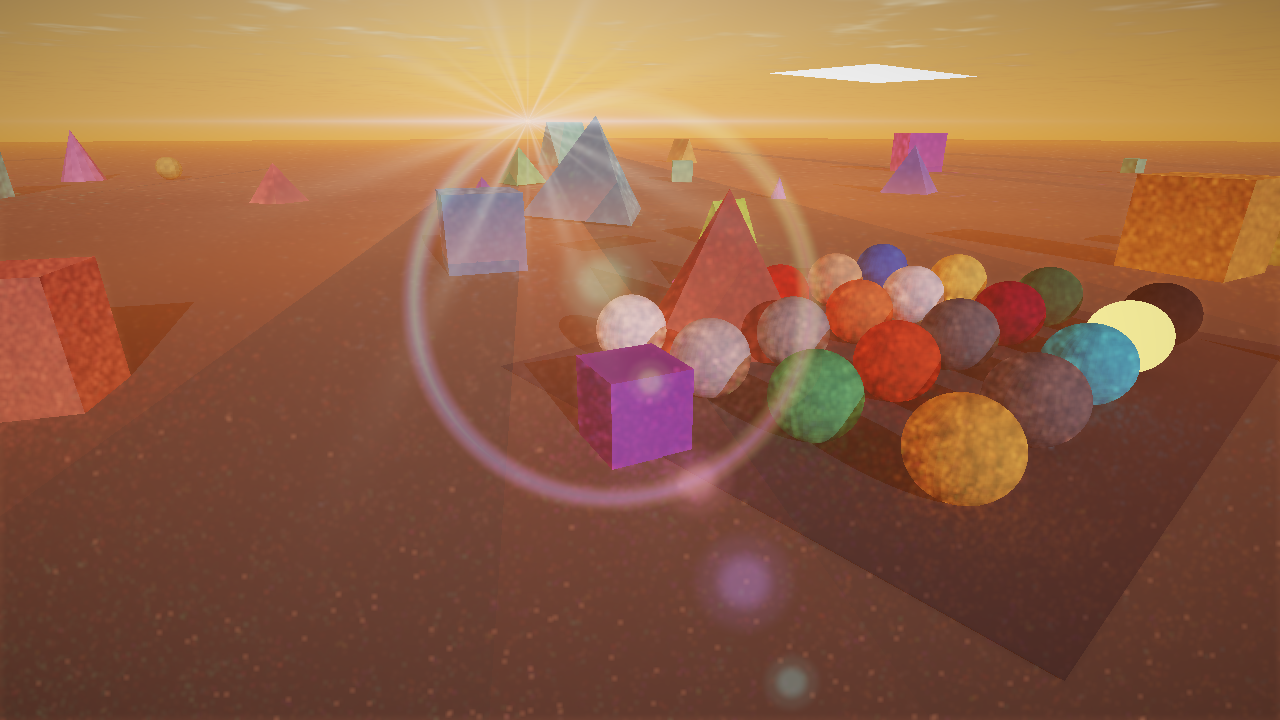
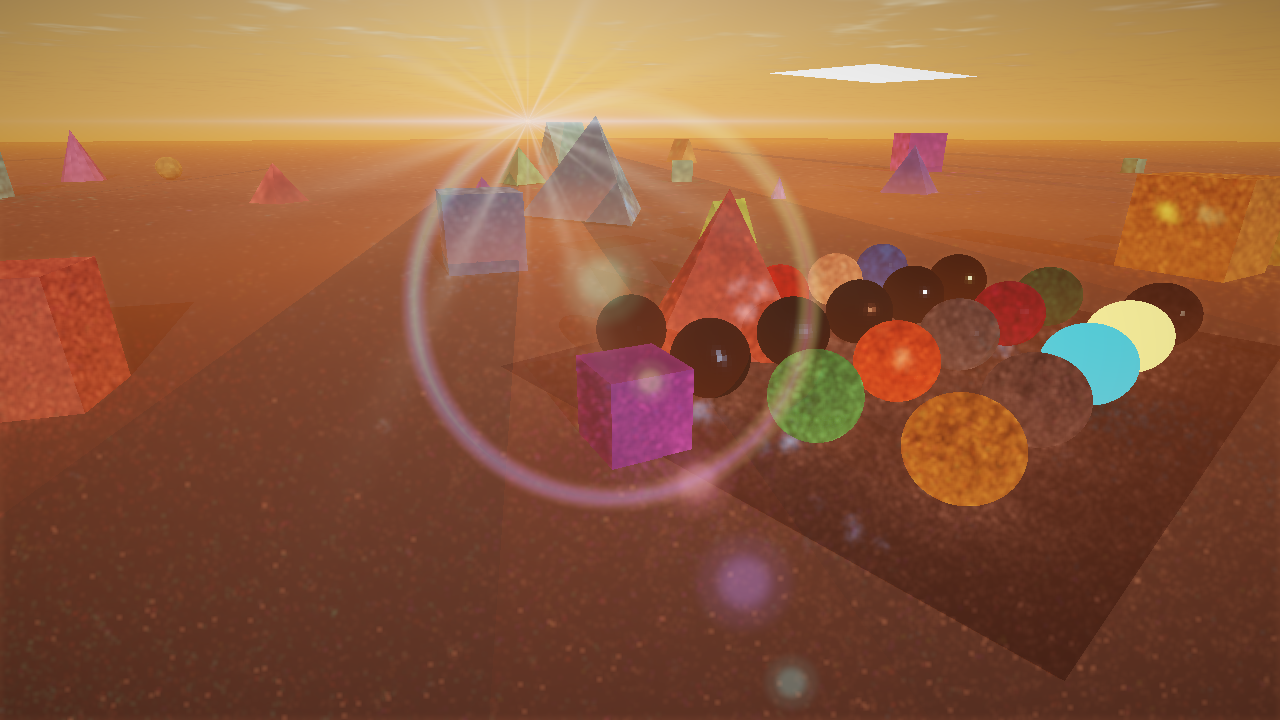
M9: combine authored material grid with showcase rendering

diff --git a/Projects/Project-Zero/Source/RendererHost.cpp b/Projects/Project-Zero/Source/RendererHost.cpp
@@ -3,6 +3,7 @@
 //============================================================================================================================================
 
 #include "RendererHost.h"
+#include "CpuMaterialShading.h"
 #include <fstream>
 #include <cmath>
 #include <algorithm>
@@ -106,6 +107,28 @@ void RendererHost::RenderShowcaseFrame(const Frontier::CameraProjection& ActiveC
     SkyFog.AssignCloudShadow(CloudShadows, CloudTime, CloudType, CloudCoverage, CloudScale, CloudBase, CloudThickness, CloudDensity);
 
     const auto& Materials = Scene.QueryMaterials();
+    // Authored showcase/grid records stay on the same OpenPBR/MaterialEvaluation.slang CPU path as the GPU
+    // material descriptors. Legacy analytical objects retain their historical Lambert fallback below.
+    std::vector<CpuMaterial::ShadingRecord> AuthoredRecords(Materials.size());
+    std::vector<uint8_t> HasAuthoredMaterial(Materials.size(), 0u);
+    std::vector<uint8_t> AuthoredUnlit(Materials.size(), 0u);
+    uint32_t AuthoredCount = 0u;
+    uint32_t TransmissionCount = 0u;
+    uint32_t SubsurfaceCount = 0u;
+    for (size_t MaterialIndex = 0u; MaterialIndex < Materials.size(); ++MaterialIndex)
+    {
+        if (!Materials[MaterialIndex].HasAuthoredDescriptor || Materials[MaterialIndex].AuthoredDescriptor.Slabs.empty()) continue;
+        const auto& Descriptor = Materials[MaterialIndex].AuthoredDescriptor;
+        AuthoredRecords[MaterialIndex] = CpuMaterial::BuildRecord(Descriptor);
+        HasAuthoredMaterial[MaterialIndex] = 1u;
+        AuthoredUnlit[MaterialIndex] = CpuMaterial::IsUnlit(Descriptor) ? 1u : 0u;
+        ++AuthoredCount;
+        const auto& Slab = Descriptor.Slabs.front();
+        if (Slab.TransmissionWeight > 0.0f) ++TransmissionCount;
+        if (Slab.SubsurfaceWeight > 0.0f) ++SubsurfaceCount;
+    }
+    std::printf("[Project-Zero CPU] authored materials=%u transmission=%u subsurface=%u; MaterialEvaluation.slang + ReSTIR DI/GI + M9 presentation active\n",
+                AuthoredCount, TransmissionCount, SubsurfaceCount);
     const Vector3 SunWorld = SkyFog.QuerySunDirectionWorld();
     const Vector3 SunRadiance = SkyFog.QuerySunRadiance();
     const Vector3 MoonWorld = SkyFog.QueryMoonDirectionWorld();
@@ -133,6 +156,7 @@ void RendererHost::RenderShowcaseFrame(const Frontier::CameraProjection& ActiveC
         {
             size_t idx = y * Width + x;
             const auto& Hit = PrimaryHits[idx];
+            const RayStructure PrimaryRay = GeneratePrimaryRay(ActiveCamera, x, y, 0.5f, 0.5f);
 
             if (!Hit.ValidCondition)
             {
@@ -140,18 +164,68 @@ void RendererHost::RenderShowcaseFrame(const Frontier::CameraProjection& ActiveC
             }
 
             const auto& Mat = Materials[Hit.MaterialIndex];
-            float SunCos = std::max(0.0f, OrientationClassifier::DotProduct(Hit.SurfaceNormal, SunWorld));
-            float SunVisible = Scene.EvaluateOcclusion(Hit.HitLocation + Hit.SurfaceNormal * 0.001f, Hit.HitLocation + SunWorld * 1000.0f) ? 0.0f : 1.0f;
-            float MoonCos = std::max(0.0f, OrientationClassifier::DotProduct(Hit.SurfaceNormal, MoonWorld));
-            float MoonVisible = Scene.EvaluateOcclusion(Hit.HitLocation + Hit.SurfaceNormal * 0.001f, Hit.HitLocation + MoonWorld * 1000.0f) ? 0.0f : 1.0f;
-            float CloudShade = SkyFog.QueryCloudShadow(Hit.HitLocation, SunWorld);
-            const float Emission = Mat.EmissiveRadiance.x + Mat.EmissiveRadiance.y + Mat.EmissiveRadiance.z;
-            // The combined CPU reference keeps the authored grid luminaire visible without turning the legacy
-            // diffuse ReSTIR proof into a second area-light integrator. The Vulkan path samples this same descriptor
-            // through the normal emissive/luminaire table.
-            DirectLight[idx] = Emission > 0.0f
-                             ? Mat.EmissiveRadiance
-                             : Mat.AlbedoColor * (SunRadiance * (SunCos * SunVisible * CloudShade) + MoonRadiance * (MoonCos * MoonVisible));
+            const float SunCos = std::max(0.0f, OrientationClassifier::DotProduct(Hit.SurfaceNormal, SunWorld));
+            const float SunVisible = Scene.EvaluateOcclusion(Hit.HitLocation + Hit.SurfaceNormal * 0.001f, Hit.HitLocation + SunWorld * 1000.0f) ? 0.0f : 1.0f;
+            const float MoonCos = std::max(0.0f, OrientationClassifier::DotProduct(Hit.SurfaceNormal, MoonWorld));
+            const float MoonVisible = Scene.EvaluateOcclusion(Hit.HitLocation + Hit.SurfaceNormal * 0.001f, Hit.HitLocation + MoonWorld * 1000.0f) ? 0.0f : 1.0f;
+            const float CloudShade = SkyFog.QueryCloudShadow(Hit.HitLocation, SunWorld);
+            PhotometricReservoir DirectReservoir{};
+            Vector3 SunCandidate{ 0.0f, 0.0f, 0.0f };
+            Vector3 MoonCandidate{ 0.0f, 0.0f, 0.0f };
+            Vector3 BackCandidate{ 0.0f, 0.0f, 0.0f };
+            const bool Authored = Hit.MaterialIndex < HasAuthoredMaterial.size() && HasAuthoredMaterial[Hit.MaterialIndex] != 0u;
+            const bool Unlit = Authored && AuthoredUnlit[Hit.MaterialIndex] != 0u;
+            if (Authored)
+            {
+                const auto& Record = AuthoredRecords[Hit.MaterialIndex];
+                const Vector3 View = Vector3{ -PrimaryRay.RayDirection.x, -PrimaryRay.RayDirection.y, -PrimaryRay.RayDirection.z };
+                if (Unlit)
+                {
+                    DirectLight[idx] = Mat.AlbedoColor + Mat.EmissiveRadiance;
+                    DirectReservoirs[idx] = DirectReservoir;
+                    continue;
+                }
+                const Vector3 SunF = CpuMaterial::Evaluate(Record, Hit.SurfaceNormal, View, SunWorld);
+                const Vector3 MoonF = CpuMaterial::Evaluate(Record, Hit.SurfaceNormal, View, MoonWorld);
+                SunCandidate = SunF * SunRadiance * (SunVisible * CloudShade);
+                MoonCandidate = MoonF * MoonRadiance * MoonVisible;
+
+                // Transmission and M5 SSS are below-surface arms of the same MaterialEvaluation.slang record. The
+                // sky supplies the CPU reference's missing far-side visibility; this is not a flat base-colour path.
+                const Vector3 Back = Vector3{ -Hit.SurfaceNormal.x, -Hit.SurfaceNormal.y, -Hit.SurfaceNormal.z };
+                const Vector3 ThroughF = CpuMaterial::Evaluate(Record, Hit.SurfaceNormal, View, Back);
+                const Vector3 BackSky = SkyFog.ComputeSkyRadiance(SkyFogIntegrator::RenderFromWorld(Back));
+                BackCandidate = ThroughF * BackSky;
+            }
+            else
+            {
+                // Legacy analytical shapes keep their original pinned Lambert material response, but still pass their
+                // sun and moon candidates through the same CPU DI reservoir as the authored grid.
+                SunCandidate = Mat.AlbedoColor * (SunRadiance * (SunCos * SunVisible * CloudShade));
+                MoonCandidate = Mat.AlbedoColor * (MoonRadiance * (MoonCos * MoonVisible));
+            }
+
+            const auto Target = [](const Vector3& Value) noexcept
+            {
+                return std::max(0.0f, 0.2126f * Value.x + 0.7152f * Value.y + 0.0722f * Value.z);
+            };
+            const float SunTarget = Target(SunCandidate);
+            const float MoonTarget = Target(MoonCandidate);
+            const float BackTarget = Target(BackCandidate);
+            DirectReservoir.ResampleCandidate(Hit.HitLocation + SunWorld * 1000.0f, SunCandidate, SunTarget, Dist(Rng));
+            DirectReservoir.ResampleCandidate(Hit.HitLocation + MoonWorld * 1000.0f, MoonCandidate, MoonTarget, Dist(Rng));
+            if (Authored) DirectReservoir.ResampleCandidate(Hit.HitLocation - Hit.SurfaceNormal, BackCandidate, BackTarget, Dist(Rng));
+            if (DirectReservoir.SampleCount > 0u && DirectReservoir.SelectedTarget > 1e-7f)
+            {
+                DirectReservoir.UnbiasedWeight = DirectReservoir.WeightSum /
+                                                  (static_cast<float>(DirectReservoir.SampleCount) * DirectReservoir.SelectedTarget);
+                DirectLight[idx] = Mat.EmissiveRadiance + DirectReservoir.SampledRadiance * DirectReservoir.UnbiasedWeight;
+            }
+            else
+            {
+                DirectLight[idx] = Mat.EmissiveRadiance + SunCandidate + MoonCandidate + BackCandidate;
+            }
+            DirectReservoirs[idx] = DirectReservoir;
         }
     }
 
@@ -187,7 +261,21 @@ void RendererHost::RenderShowcaseFrame(const Frontier::CameraProjection& ActiveC
                     float BounceMoonCos = std::max(0.0f, OrientationClassifier::DotProduct(BounceHit.SurfaceNormal, MoonWorld));
                     float BounceMoonVis = Scene.EvaluateOcclusion(BounceHit.HitLocation + BounceHit.SurfaceNormal * 0.001f, BounceHit.HitLocation + MoonWorld * 1000.0f) ? 0.0f : 1.0f;
                     float BounceCloudShade = SkyFog.QueryCloudShadow(BounceHit.HitLocation, SunWorld);
-                    BounceRadiance = BounceMat.AlbedoColor * (SunRadiance * (BounceSunCos * BounceSunVis * BounceCloudShade) + MoonRadiance * (BounceMoonCos * BounceMoonVis) + SkyAmbient);
+                    if (BounceHit.MaterialIndex < HasAuthoredMaterial.size() && HasAuthoredMaterial[BounceHit.MaterialIndex] != 0u &&
+                        AuthoredUnlit[BounceHit.MaterialIndex] == 0u)
+                    {
+                        const auto& BounceRecord = AuthoredRecords[BounceHit.MaterialIndex];
+                        const Vector3 BounceView = Vector3{ -BounceDir.x, -BounceDir.y, -BounceDir.z };
+                        const Vector3 SunF = CpuMaterial::Evaluate(BounceRecord, BounceHit.SurfaceNormal, BounceView, SunWorld);
+                        const Vector3 MoonF = CpuMaterial::Evaluate(BounceRecord, BounceHit.SurfaceNormal, BounceView, MoonWorld);
+                        BounceRadiance = SunF * SunRadiance * (BounceSunVis * BounceCloudShade)
+                                       + MoonF * MoonRadiance * BounceMoonVis
+                                       + SkyAmbient;
+                    }
+                    else
+                    {
+                        BounceRadiance = BounceMat.AlbedoColor * (SunRadiance * (BounceSunCos * BounceSunVis * BounceCloudShade) + MoonRadiance * (BounceMoonCos * BounceMoonVis) + SkyAmbient);
+                    }
                     BouncePos = BounceHit.HitLocation;
                     BounceNormal = BounceHit.SurfaceNormal;
                 }
@@ -384,7 +472,14 @@ void RendererHost::RenderShowcaseFrame(const Frontier::CameraProjection& ActiveC
             }
 
             const auto& HitMat = Materials[Hit.MaterialIndex];
-            Vector3 Surface = DirectLight[idx] + HitMat.AlbedoColor * FilteredIndirect[idx];
+            Vector3 Surface;
+            if (Hit.MaterialIndex < HasAuthoredMaterial.size() && HasAuthoredMaterial[Hit.MaterialIndex] != 0u &&
+                AuthoredUnlit[Hit.MaterialIndex] == 0u)
+                Surface = DirectLight[idx] + CpuMaterial::IndirectAlbedo(AuthoredRecords[Hit.MaterialIndex]) * FilteredIndirect[idx];
+            else if (Hit.MaterialIndex < HasAuthoredMaterial.size() && AuthoredUnlit[Hit.MaterialIndex] != 0u)
+                Surface = DirectLight[idx];
+            else
+                Surface = DirectLight[idx] + HitMat.AlbedoColor * FilteredIndirect[idx];
             Vector3 Aerial = SkyFog.ApplyAerialPerspective(Surface, RenderOrigin, RenderDir, Hit.RayDistance);
             const Vector3 MidPoint = PrimaryRay.SpatialOrigin + PrimaryRay.RayDirection * (Hit.RayDistance * 0.5f);
             float FogVisible = Scene.EvaluateOcclusion(MidPoint, MidPoint + FogLightWorld * 1000.0f) ? 0.0f : 1.0f;

diff --git a/Projects/Project-Zero/Source/CpuMaterialShading.h b/Projects/Project-Zero/Source/CpuMaterialShading.h
@@ -1,0 +1,169 @@
+//============================================================================================================================================
+//                                        CPUMATERIALSHADING.H
+//============================================================================================================================================
+// Project-Zero CPU counterpart for authored materials. MaterialEvaluation.slang is included here as C++ through the
+// same Slang CPU shim used by the material exhibits; the Showcase CPU renderer therefore does not collapse the grid
+// back to its legacy Lambert analytical materials.
+#pragma once
+
+#include "../../../Engine/ContentInterchange/MaterialDescriptor.h"
+#include "../../../Engine/ContentInterchange/MaterialIndex.h"
+#include "../../../Engine/DeviceExchange/OrientationClassifier.h"
+#include "../../../Engine/DisplayPresentation/ShadingTableCodec.h"
+#include <algorithm>
+#include <cmath>
+
+#ifndef FRONTIER_CPU_PORT
+#define FRONTIER_CPU_PORT 1
+#define FRONTIER_CPU_PORT_LOCAL_DEFINE 1
+#endif
+
+namespace Frontier::ProjectZero::CpuMaterial
+{
+#include "../../../Exhibits/Workbench/Materials/SlangCpuShim.h"
+
+inline const Frontier::ShadingTableSet& Tables() noexcept
+{
+    static const Frontier::ShadingTableSet Value = Frontier::ShadingTableCodec::Bake(1024u);
+    return Value;
+}
+
+inline vec3 FetchEnergy(float Mu, float Alpha)
+{
+    float Out[3] = { 0.0f, 0.0f, 0.0f };
+    Frontier::ShadingTableCodec::SampleEnergy(Tables(), Mu, Alpha, Out);
+    return vec3(Out[0], Out[1], Out[2]);
+}
+
+inline vec3 FetchSheen(float Mu, float Alpha)
+{
+    float Out[3] = { 0.0f, 0.0f, 0.0f };
+    Frontier::ShadingTableCodec::SampleSheen(Tables(), Mu, Alpha, Out);
+    return vec3(Out[0], Out[1], Out[2]);
+}
+
+inline vec4 FetchSheenFull(float Mu, float Alpha)
+{
+    float Out[4] = { 0.0f, 0.0f, 0.0f, 0.0f };
+    Frontier::ShadingTableCodec::SampleSheenFull(Tables(), Mu, Alpha, Out);
+    return vec4(Out[0], Out[1], Out[2], Out[3]);
+}
+
+#include "../../../Engine/Shaders/MaterialEvaluation.slang"
+
+inline MaterialReflectance DeriveSelection(const Frontier::MaterialDescriptor& D,
+                                           const Frontier::MaterialSlabDescriptor& S) noexcept
+{
+    if ((D.Flags & Frontier::MaterialFlagUnlit) != 0u) return MaterialReflectance::Unlit;
+    const bool Reflects = S.BaseWeight > 0.0f || S.SpecularWeight > 0.0f || S.CoatWeight > 0.0f ||
+                          S.FuzzWeight > 0.0f || S.TransmissionWeight > 0.0f || S.SubsurfaceWeight > 0.0f ||
+                          S.ThinFilmWeight > 0.0f;
+    if (S.EmissionLuminance > 0.0f && !Reflects) return MaterialReflectance::EmissiveOnly;
+    if (S.TransmissionWeight > 0.0f) return MaterialReflectance::Transmissive;
+    if (S.SubsurfaceWeight > 0.0f) return MaterialReflectance::Subsurface;
+    if (S.FuzzWeight > 0.0f && S.SpecularWeight == 0.0f && S.CoatWeight == 0.0f && S.BaseMetalness == 0.0f &&
+        S.SlateHazinessWeight == 0.0f)
+        return MaterialReflectance::Cloth;
+    if (S.CoatWeight > 0.0f) return MaterialReflectance::ClearCoated;
+    if (S.SpecularRoughnessAnisotropy != 0.0f) return MaterialReflectance::Anisotropic;
+    return MaterialReflectance::Standard;
+}
+
+inline ShadingRecord BuildRecord(const Frontier::MaterialDescriptor& D)
+{
+    const Frontier::MaterialSlabDescriptor& S = D.Slabs.front();
+    ShadingRecord M;
+    M.BaseColor = vec3(S.BaseWeight * S.BaseColor[0], S.BaseWeight * S.BaseColor[1], S.BaseWeight * S.BaseColor[2]);
+    M.Metalness = S.BaseMetalness;
+    M.DiffuseRoughness = S.BaseDiffuseRoughness;
+    M.SpecularWeight = S.SpecularWeight;
+    M.SpecularColor = vec3(S.SpecularColor[0], S.SpecularColor[1], S.SpecularColor[2]);
+    M.SpecularRoughness = S.SpecularRoughness;
+    M.SpecularAnisotropy = S.SpecularRoughnessAnisotropy;
+    M.AnisotropyAngle = S.SlateAnisotropyRotation;
+    M.SpecularIor = S.SpecularIor;
+    M.ThinFilmWeight = S.ThinFilmWeight;
+    M.ThinFilmThickness = S.ThinFilmThickness;
+    M.ThinFilmIor = S.ThinFilmIor;
+    M.HazinessWeight = S.SlateHazinessWeight;
+    M.HazinessRoughness = S.SlateHazinessRoughness;
+    M.CoatWeight = S.CoatWeight;
+    M.CoatColor = vec3(S.CoatColor[0], S.CoatColor[1], S.CoatColor[2]);
+    M.CoatRoughness = S.CoatRoughness;
+    M.CoatAnisotropy = S.CoatRoughnessAnisotropy;
+    M.CoatIor = S.CoatIor;
+    M.CoatDarkening = S.CoatDarkening;
+    M.FuzzWeight = S.FuzzWeight;
+    M.FuzzColor = vec3(S.FuzzColor[0], S.FuzzColor[1], S.FuzzColor[2]);
+    M.FuzzRoughness = S.FuzzRoughness;
+    M.Emission = vec3(S.EmissionLuminance * S.EmissionColor[0], S.EmissionLuminance * S.EmissionColor[1],
+                      S.EmissionLuminance * S.EmissionColor[2]);
+    M.TransmissionWeight = S.TransmissionWeight;
+    M.TransmissionColor = vec3(S.TransmissionColor[0], S.TransmissionColor[1], S.TransmissionColor[2]);
+    M.TransmissionDepth = S.TransmissionDepth;
+    M.TransmissionThickness = D.VolumeThickness > 0.0f ? D.VolumeThickness : S.TransmissionDepth;
+    M.Selection = static_cast<uint>(DeriveSelection(D, S));
+    M.SssWeight = S.SubsurfaceWeight;
+    M.SssColor = vec3(S.SubsurfaceColor[0], S.SubsurfaceColor[1], S.SubsurfaceColor[2]);
+    M.SssRadius = S.SubsurfaceRadius;
+    M.SssRadiusScale = vec3(S.SubsurfaceRadiusScale[0], S.SubsurfaceRadiusScale[1], S.SubsurfaceRadiusScale[2]);
+    // The CPU visibility renderer has no per-hit exit-distance buffer. A short chord is the honest local counterpart
+    // for the grid's translucent balls; it keeps SSS visible without pretending to be volumetric random walk.
+    M.SssThickness = std::max(0.0f, 2.0f * S.SubsurfaceRadius);
+    return M;
+}
+
+inline void Frame(const vec3& N, vec3& T, vec3& B)
+{
+    const vec3 Helper = abs(N.z) < 0.9f ? vec3(0.0f, 0.0f, 1.0f) : vec3(1.0f, 0.0f, 0.0f);
+    T = normalize(cross(Helper, N));
+    B = cross(N, T);
+}
+
+inline Frontier::Vector3 ToEngine(vec3 V) noexcept { return Frontier::Vector3{ V.x, V.y, V.z }; }
+inline vec3 ToShader(const Frontier::Vector3& V) noexcept { return vec3(V.x, V.y, V.z); }
+
+// Evaluates the exact shared shader f*cosθ for an incoming direction. Above-surface direct sun/moon, below-surface
+// environment transmission, and the M5 subsurface arm all use this same entry point.
+inline Frontier::Vector3 Evaluate(const ShadingRecord& Material,
+                                  const Frontier::Vector3& Normal,
+                                  const Frontier::Vector3& ViewDirection,
+                                  const Frontier::Vector3& LightDirection) noexcept
+{
+    const vec3 N = normalize(ToShader(Normal));
+    vec3 T, B;
+    Frame(N, T, B);
+    const vec3 WoWorld = normalize(ToShader(ViewDirection));
+    const vec3 WiWorld = normalize(ToShader(LightDirection));
+    const vec3 Wo(dot(WoWorld, T), dot(WoWorld, B), dot(WoWorld, N));
+    const vec3 Wi(dot(WiWorld, T), dot(WiWorld, B), dot(WiWorld, N));
+    if (Wo.z <= 0.0f) return Frontier::Vector3{ 0.0f, 0.0f, 0.0f };
+    const ResolvedLayers Layers = ResolveLayers(Material, Wo);
+    const vec3 F = EvaluateBsdf(Material, Layers, Wo, Wi);
+    const float Cosine = Wi.z >= 0.0f ? Wi.z : -Wi.z;
+    return ToEngine(F * Cosine);
+}
+
+inline Frontier::Vector3 IndirectAlbedo(const ShadingRecord& Material) noexcept
+{
+    const vec3 Base = (1.0f - Material.Metalness) * (1.0f - Material.TransmissionWeight) *
+                      (1.0f - Material.SssWeight) * Material.BaseColor + Material.SssWeight * Material.SssColor;
+    return ToEngine(Base);
+}
+
+inline bool IsUnlit(const Frontier::MaterialDescriptor& D) noexcept
+{
+    return (D.Flags & Frontier::MaterialFlagUnlit) != 0u;
+}
+
+inline bool IsEmissive(const ShadingRecord& M) noexcept
+{
+    return M.Emission.x > 0.0f || M.Emission.y > 0.0f || M.Emission.z > 0.0f;
+}
+
+} // namespace Frontier::ProjectZero::CpuMaterial
+
+#ifdef FRONTIER_CPU_PORT_LOCAL_DEFINE
+#undef FRONTIER_CPU_PORT_LOCAL_DEFINE
+#undef FRONTIER_CPU_PORT
+#endif

diff --git a/Projects/Project-Zero/Source/RendererHost.h b/Projects/Project-Zero/Source/RendererHost.h
@@ -26,7 +26,8 @@ struct PhotometricReservoir
     Vector3                 SampledRadiance;                    // [lux] candidate radiant flux
     float                   WeightSum;                          // [-] accumulated candidate weights
     uint32_t                SampleCount;                        // [count] considered candidate count M
-    float                   UnbiasedWeight;                     // [-] normalization weight W
+    float                   UnbiasedWeight;                     // [-]   normalization weight W
+    float                   SelectedTarget;                      // [-]   target function of the retained candidate
 
     void ResampleCandidate(const Vector3& LightPoint, const Vector3& Radiance, float Weight, float RandomScalar) noexcept
     {
@@ -36,6 +37,7 @@ struct PhotometricReservoir
         {
             SampledLightPoint = LightPoint;
             SampledRadiance   = Radiance;
+            SelectedTarget    = Weight;
         }
     }
 };
